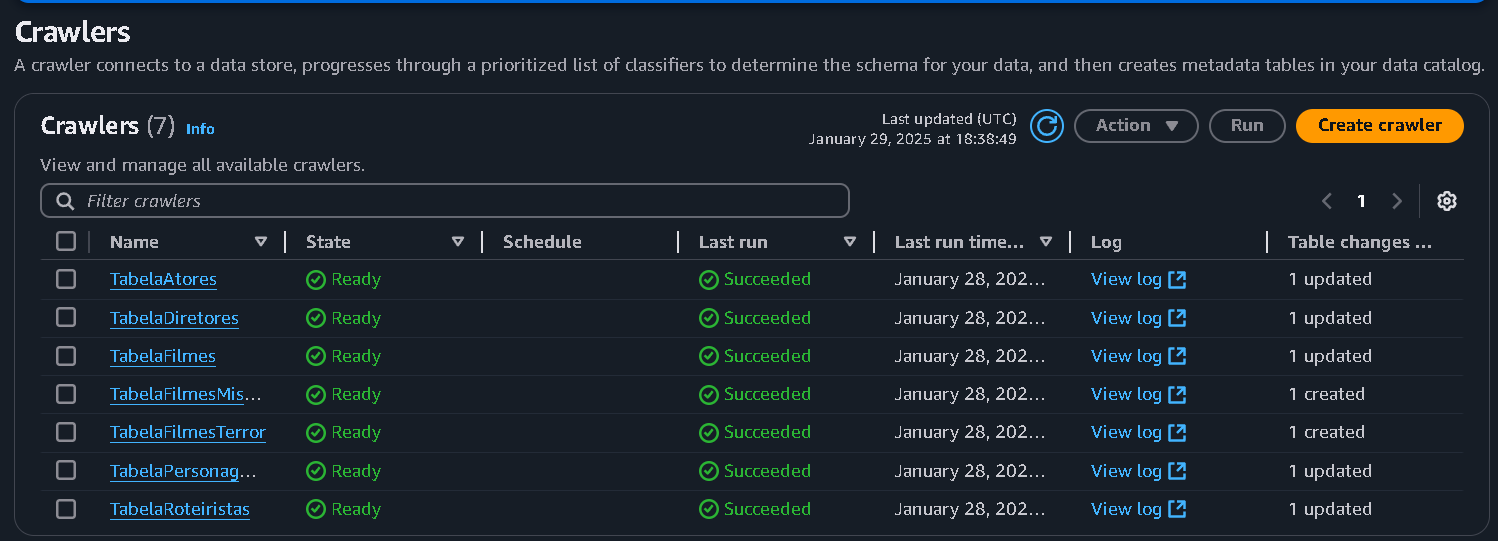
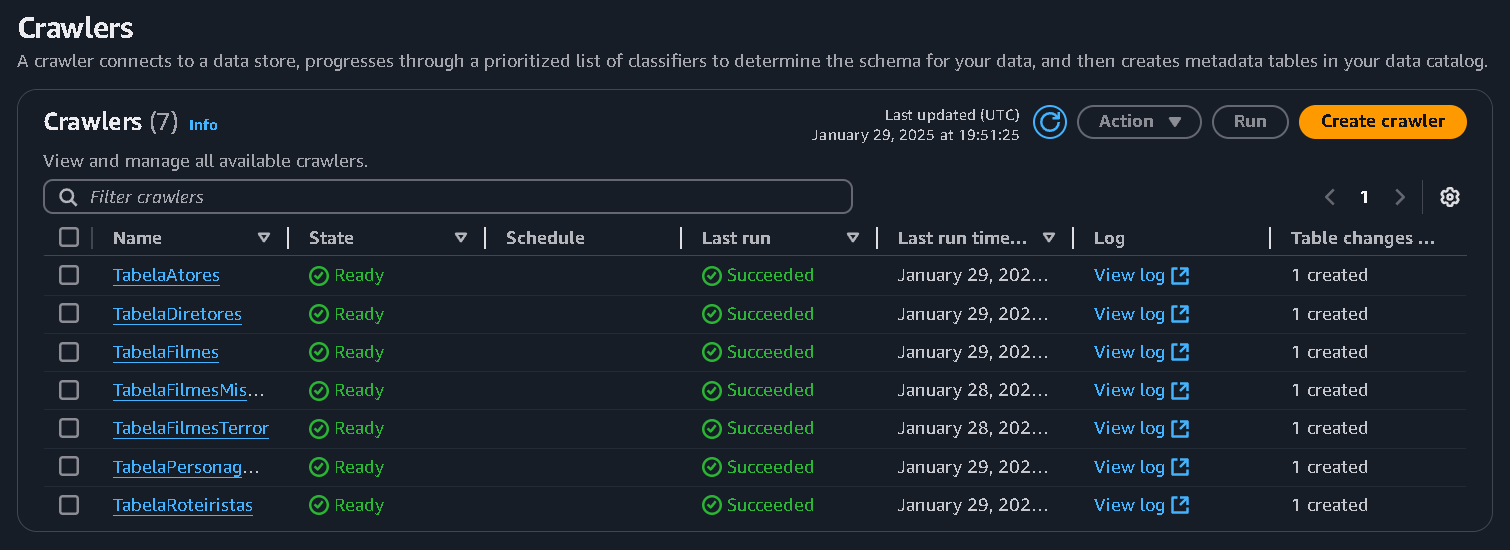
Sprint 08 Finalizada

diff --git a/Sprint8/Desafio/filmes-json.py b/Sprint8/Desafio/filmes-json.py
@@ -4,9 +4,8 @@ from awsglue.utils import getResolvedOptions
 from awsglue.context import GlueContext
 from pyspark.context import SparkContext
 from pyspark.sql import SparkSession
-from pyspark.sql.functions import explode
+from pyspark.sql.functions import explode, monotonically_increasing_id, col
 from pyspark.sql.types import *
-from pyspark.sql.functions import monotonically_increasing_id
 from datetime import datetime
 
 # Definir argumentos de entrada para o script
@@ -49,42 +48,41 @@ schema = StructType([
 
 dados = spark.read.schema(schema).json(source_path, mode='PERMISSIVE', multiLine=True)
 
-# Explodir a coluna "elenco" para transformar cada ator em uma linha separada e adicionar um ID único
-atores = dados.select(
-    "id", "imdb_id", explode("elenco").alias("ator")
-).withColumn("id_ator", monotonically_increasing_id() + 1)
+# Função para criar IDs únicos
+def create_unique_ids(dataframe, column_name, id_column_name):
+    # Criar IDs únicos para os itens na coluna de interesse
+    unique_items = dataframe.select(column_name).distinct()
+    unique_items = unique_items.withColumn(id_column_name, monotonically_increasing_id() + 1)
+    
+    # Juntar os IDs únicos com os dados originais
+    dataframe_with_ids = dataframe.join(unique_items, column_name, "left")
+    return dataframe_with_ids
 
+# Explodir e adicionar IDs para atores
+atores = dados.select("id", "imdb_id", explode("elenco").alias("ator"))
+atores = create_unique_ids(atores, "ator", "id_ator")
 atores.dropna().dropDuplicates()
-
 atores.write.mode("overwrite").parquet(atores_path)
 
-personagens = dados.select(
-    "id", "imdb_id", explode("personagens").alias("personagem")
-).withColumn("id_personagem", monotonically_increasing_id() + 1)
-
+# Explodir e adicionar IDs para personagens
+personagens = dados.select("id", "imdb_id", explode("personagens").alias("personagem"))
+personagens = create_unique_ids(personagens, "personagem", "id_personagem")
 personagens.dropna().dropDuplicates()
-
 personagens.write.mode("overwrite").parquet(personagens_path)
 
-diretores = dados.select(
-    "id", "imdb_id", explode("diretores").alias("diretor")
-).withColumn("id_diretor", monotonically_increasing_id() + 1)
-
+# Explodir e adicionar IDs para diretores
+diretores = dados.select("id", "imdb_id", explode("diretores").alias("diretor"))
+diretores = create_unique_ids(diretores, "diretor", "id_diretor")
 diretores.dropna().dropDuplicates()
-
 diretores.write.mode("overwrite").parquet(diretores_path)
 
-roteiristas = dados.select(
-    "id", "imdb_id", explode("roteiristas").alias("roteiristas")
-).withColumn("id_roteirista", monotonically_increasing_id() + 1)
-
+# Explodir e adicionar IDs para roteiristas
+roteiristas = dados.select("id", "imdb_id", explode("roteiristas").alias("roteirista"))
+roteiristas = create_unique_ids(roteiristas, "roteirista", "id_roteirista")
 roteiristas.dropna().dropDuplicates()
-
 roteiristas.write.mode("overwrite").parquet(roteiristas_path)
 
 # Remover as colunas 'roteiristas', 'diretores', 'personagens' e 'elenco' do dataframe principal
 dados_principal = dados.drop("roteiristas", "diretores", "personagens", "elenco")
-
 dados_principal.dropna().dropDuplicates()
-
 dados_principal.write.mode("overwrite").parquet(filmes_path)

diff --git a/Sprint8/Desafio/README.md b/Sprint8/Desafio/README.md
@@ -312,9 +312,8 @@ from awsglue.utils import getResolvedOptions
 from awsglue.context import GlueContext
 from pyspark.context import SparkContext
 from pyspark.sql import SparkSession
-from pyspark.sql.functions import explode
+from pyspark.sql.functions import explode, monotonically_increasing_id, col
 from pyspark.sql.types import *
-from pyspark.sql.functions import monotonically_increasing_id
 from datetime import datetime
 
 # Definir argumentos de entrada para o script
@@ -357,44 +356,43 @@ schema = StructType([
 
 dados = spark.read.schema(schema).json(source_path, mode='PERMISSIVE', multiLine=True)
 
-# Explodir a coluna "elenco" para transformar cada ator em uma linha separada e adicionar um ID único
-atores = dados.select(
-    "id", "imdb_id", explode("elenco").alias("ator")
-).withColumn("id_ator", monotonically_increasing_id() + 1)
+# Função para criar IDs únicos
+def create_unique_ids(dataframe, column_name, id_column_name):
+    # Criar IDs únicos para os itens na coluna de interesse
+    unique_items = dataframe.select(column_name).distinct()
+    unique_items = unique_items.withColumn(id_column_name, monotonically_increasing_id() + 1)
+    
+    # Juntar os IDs únicos com os dados originais
+    dataframe_with_ids = dataframe.join(unique_items, column_name, "left")
+    return dataframe_with_ids
 
+# Explodir e adicionar IDs para atores
+atores = dados.select("id", "imdb_id", explode("elenco").alias("ator"))
+atores = create_unique_ids(atores, "ator", "id_ator")
 atores.dropna().dropDuplicates()
-
 atores.write.mode("overwrite").parquet(atores_path)
 
-personagens = dados.select(
-    "id", "imdb_id", explode("personagens").alias("personagem")
-).withColumn("id_personagem", monotonically_increasing_id() + 1)
-
+# Explodir e adicionar IDs para personagens
+personagens = dados.select("id", "imdb_id", explode("personagens").alias("personagem"))
+personagens = create_unique_ids(personagens, "personagem", "id_personagem")
 personagens.dropna().dropDuplicates()
-
 personagens.write.mode("overwrite").parquet(personagens_path)
 
-diretores = dados.select(
-    "id", "imdb_id", explode("diretores").alias("diretor")
-).withColumn("id_diretor", monotonically_increasing_id() + 1)
-
+# Explodir e adicionar IDs para diretores
+diretores = dados.select("id", "imdb_id", explode("diretores").alias("diretor"))
+diretores = create_unique_ids(diretores, "diretor", "id_diretor")
 diretores.dropna().dropDuplicates()
-
 diretores.write.mode("overwrite").parquet(diretores_path)
 
-roteiristas = dados.select(
-    "id", "imdb_id", explode("roteiristas").alias("roteiristas")
-).withColumn("id_roteirista", monotonically_increasing_id() + 1)
-
+# Explodir e adicionar IDs para roteiristas
+roteiristas = dados.select("id", "imdb_id", explode("roteiristas").alias("roteirista"))
+roteiristas = create_unique_ids(roteiristas, "roteirista", "id_roteirista")
 roteiristas.dropna().dropDuplicates()
-
 roteiristas.write.mode("overwrite").parquet(roteiristas_path)
 
 # Remover as colunas 'roteiristas', 'diretores', 'personagens' e 'elenco' do dataframe principal
 dados_principal = dados.drop("roteiristas", "diretores", "personagens", "elenco")
-
 dados_principal.dropna().dropDuplicates()
-
 dados_principal.write.mode("overwrite").parquet(filmes_path)
 
 ```
@@ -407,15 +405,15 @@ dados_principal.write.mode("overwrite").parquet(filmes_path)
 
 ![Resultado: Filmes Mistérios](../Evidencias/trusted-json-tmdb.png)
 
-**atores:** s3://data-lake-pedroisse/Trusted/TMDB/Parquet/movies/2025/1/28/atores/
+**atores:** s3://data-lake-pedroisse/Trusted/TMDB/Parquet/movies/2025/1/29/atores/
 
-**diretores:** s3://data-lake-pedroisse/Trusted/TMDB/Parquet/movies/2025/1/28/diretores/
+**diretores:** s3://data-lake-pedroisse/Trusted/TMDB/Parquet/movies/2025/1/29/diretores/
 
-**filmes** s3://data-lake-pedroisse/Trusted/TMDB/Parquet/movies/2025/1/28/filmes/
+**filmes** s3://data-lake-pedroisse/Trusted/TMDB/Parquet/movies/2025/1/29/filmes/
 
-**personagens:** s3://data-lake-pedroisse/Trusted/TMDB/Parquet/movies/2025/1/28/personagens/
+**personagens:** s3://data-lake-pedroisse/Trusted/TMDB/Parquet/movies/2025/1/29/personagens/
 
-**roteiristas:** s3://data-lake-pedroisse/Trusted/TMDB/Parquet/movies/2025/1/28/roteiristas/
+**roteiristas:** s3://data-lake-pedroisse/Trusted/TMDB/Parquet/movies/2025/1/29/roteiristas/
 
 ### **Criando Tabelas: Crawler**
 
